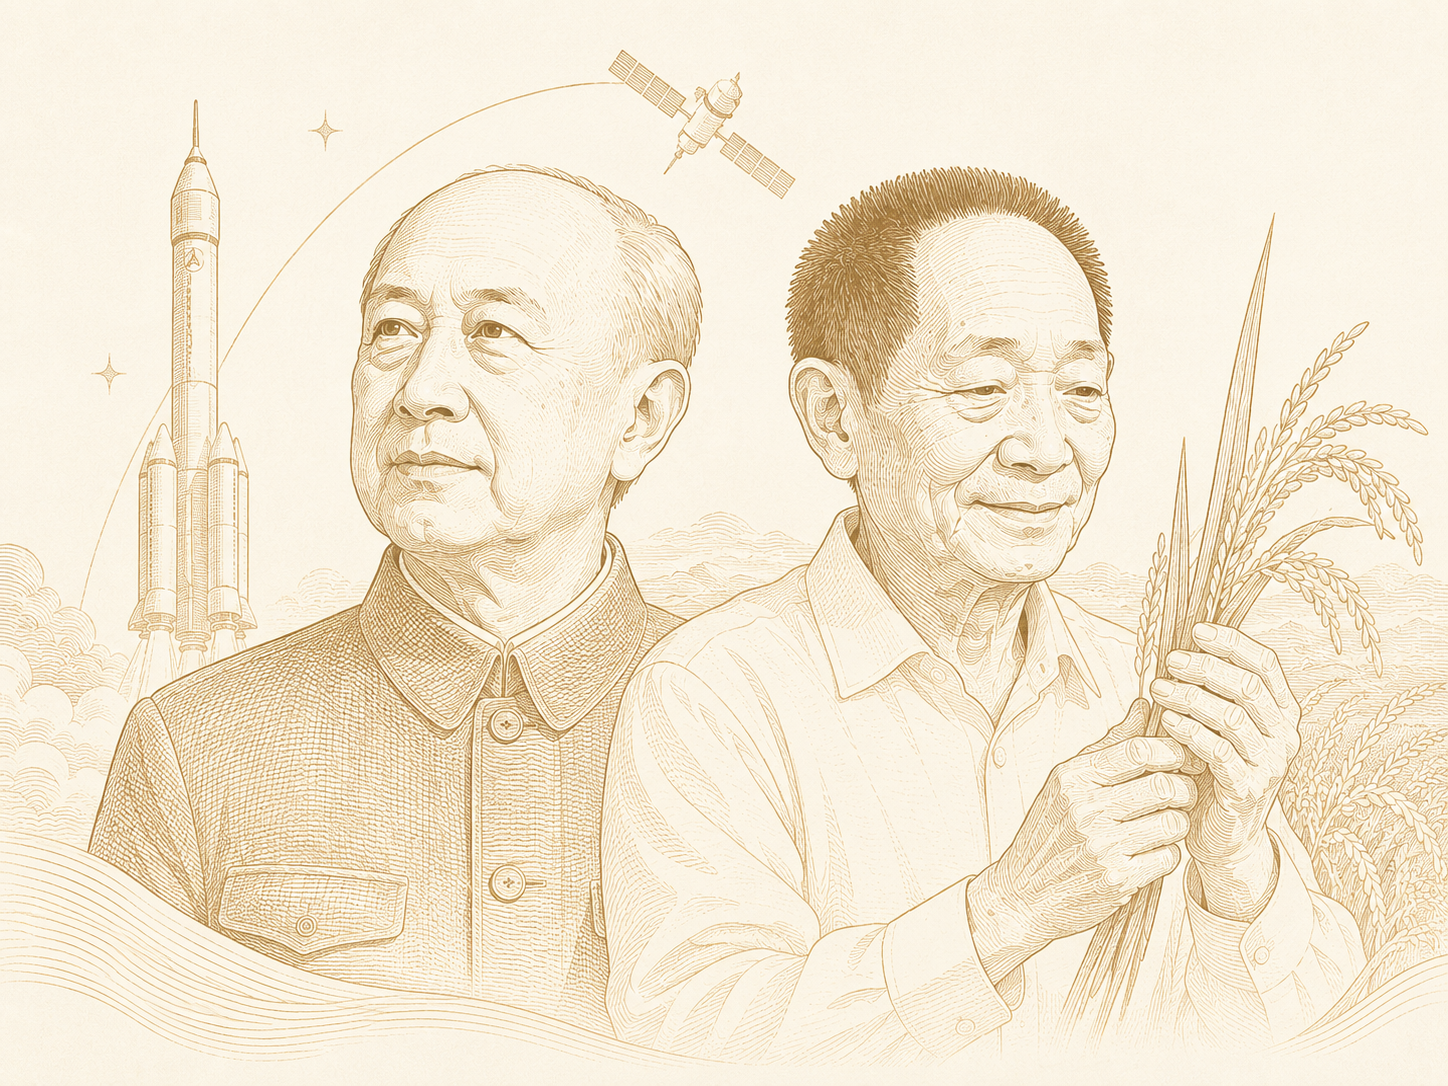
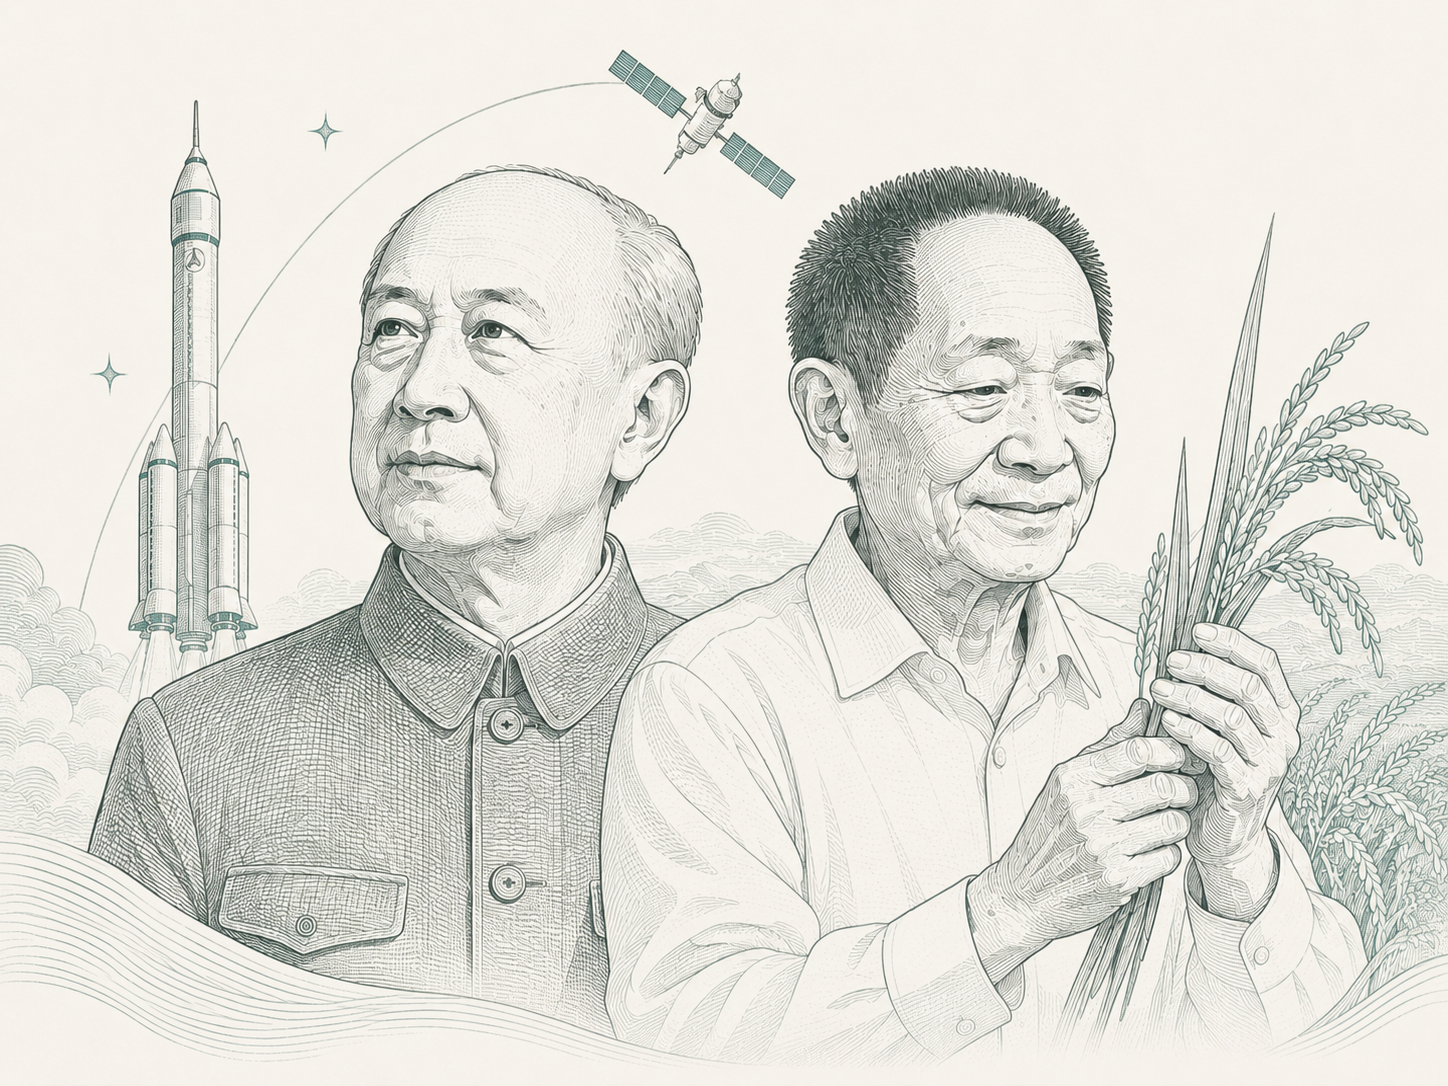
style(about): 优化关于页配图资源

diff --git a/src/pages/about.tsx b/src/pages/about.tsx
@@ -300,7 +300,7 @@ export default function AboutPage({
 								}}
 							>
 								<img
-									src={`${import.meta.env.BASE_URL}assets/qian_xuesen_yuan_longping_style.jpg`}
+									src={`${import.meta.env.BASE_URL}assets/qian_xuesen_yuan_longping_style.webp`}
 									alt=""
 									className="w-full h-full object-cover"
 									loading="lazy"
